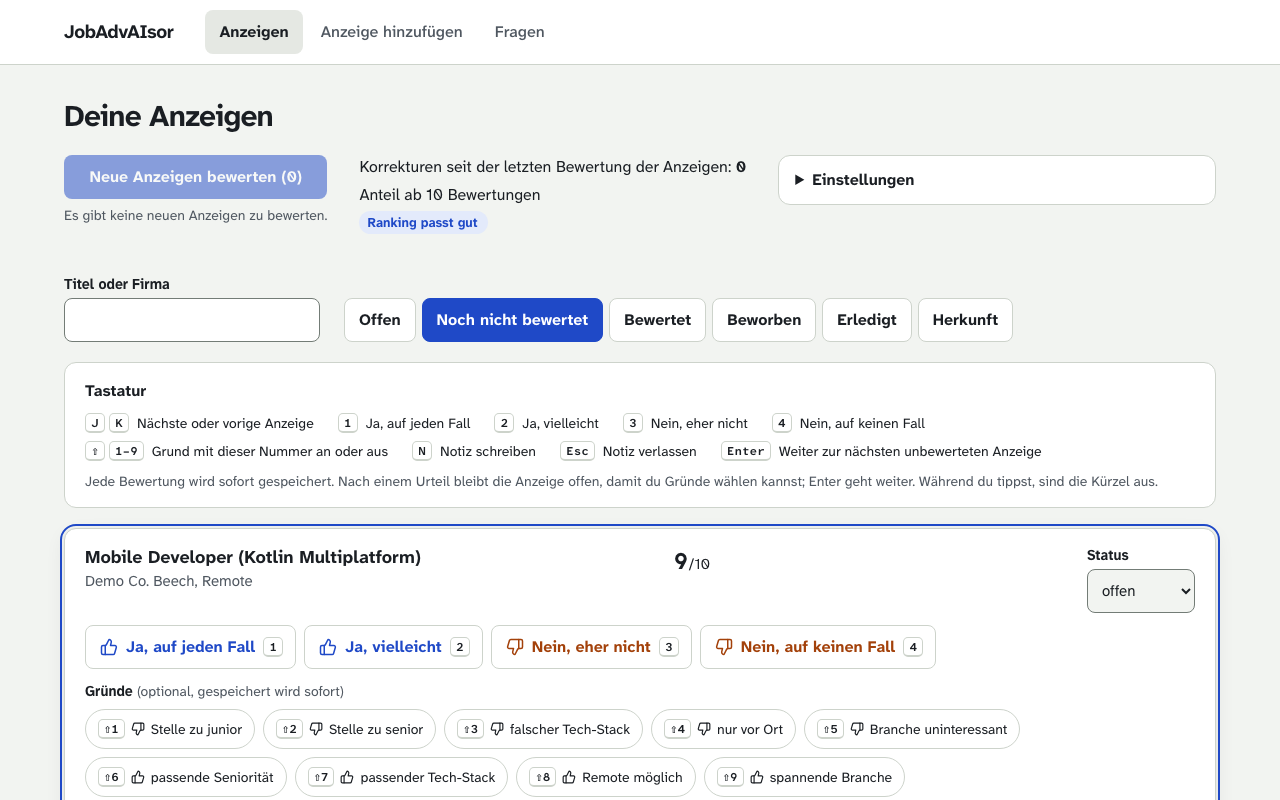
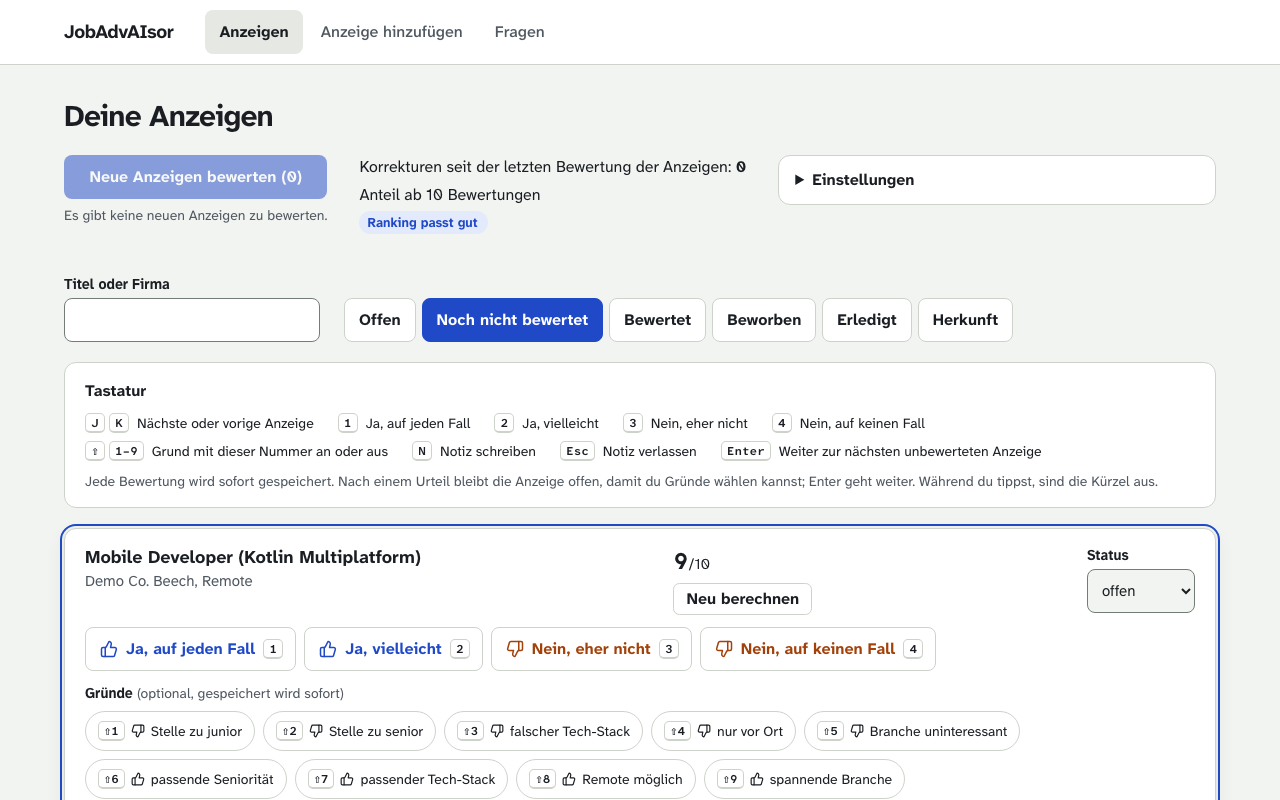
Score on demand: retake pool.png with the score button
A fresh copy of the demo persona, one scoring pass (it now scores all 141 postings that are
not excluded, rated ones included), 1280 by 800, light mode, filter Noch nicht bewertet.

Claude-Session: https://claude.ai/code/session_01Gaydmz7QaeGxExUzvvzX6u

Changed region(s): [[0.0625, 0.7812, 0.7812, 1.0], [0.5312, 0.7188, 0.7188, 0.8438]]

diff --git a/openspec/changes/score-posting-on-demand/tasks.md b/openspec/changes/score-posting-on-demand/tasks.md
@@ -27,5 +27,5 @@
 
 - [x] 5.1 e2e walkthrough in `backend/tests/e2e/` (real app over a temporary data repository, fake models, as `test_import_walkthrough.py`): a pass scores a rated posting without a score; score a posting from its page, then see the score in the pool; re-score from a pool row.
 - [x] 5.2 Full suite (`env -C backend uv run pytest -q`, `ruff check .`, frontend tests and build, `pytest -m e2e`) and a click test in the browser on both views.
-- [ ] 5.3 README pool workflow: say that a pass scores rated postings too, name the button. Retake `docs/images/pool.png` per AGENTS.md (fresh demo copy, one paid pass, 1280 by 800, light mode).
+- [x] 5.3 README pool workflow: say that a pass scores rated postings too, name the button. Retake `docs/images/pool.png` per AGENTS.md (fresh demo copy, one paid pass, 1280 by 800, light mode).
 - [ ] 5.4 `openspec validate score-posting-on-demand --strict` (sync the baseline specs again after any delta edit) and update the "Current state" section of AGENTS.md.
